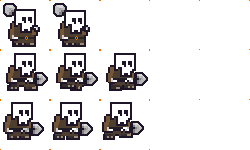
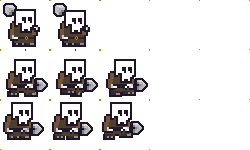
circle drawn around gravediggar

Changed region(s): [[0.0, 0.3467, 0.196, 0.6667], [0.42, 0.3467, 0.616, 0.6667], [0.224, 0.3467, 0.392, 0.6667]]

diff --git a/src/main.cpp b/src/main.cpp
@@ -27,7 +27,12 @@ int main()
   fsprite->updatePosition();
 
   // Main loop
-  bool thrown= false;
+  sf::CircleShape radiusHit;
+  radiusHit.setRadius(80);
+  radiusHit.setOutlineColor(sf::Color::Red);
+  radiusHit.setOutlineThickness(5);
+  bool thrown = false;
+  bool wasPressed = false;
   sf::Clock clock;
   while (window.isOpen()) {
     sf::Event event;
@@ -57,12 +62,16 @@ int main()
 	  (state->getState().compare("Left")==0)) {
 	state->setState("Stand");
       }
-      if (event.type == sf::Event::MouseButtonPressed) {
+      if (event.type == sf::Event::MouseButtonReleased) {
 	ACThrow * throwAction = (ACThrow*) gravedigger->getComponent("Throw");
 	throwAction->setX(event.mouseButton.x);
 	throwAction->setY(event.mouseButton.y);
 	throwAction->execute();
 	thrown  = true;
+	wasPressed = false;
+      }
+      if (event.type == sf::Event::MouseButtonPressed) {
+	wasPressed = true;
       }
       
 
@@ -73,6 +82,17 @@ int main()
     state->update(elapsed.asMicroseconds());
 
     window.clear(); // not sure why i do dat
+    if (wasPressed) {
+      CPosition * position=(CPosition*)gravedigger->getComponent("Position");
+      int x=
+	position->getX()-radiusHit.getRadius();
+      int y=
+	position->getY()-
+	(float)((sprite->getSprite()).getLocalBounds().height) -
+	(float)(radiusHit.getRadius()/2);
+      radiusHit.setPosition(x,y);
+      window.draw(radiusHit);
+    }
     window.draw(sprite->getSprite() );
     if (thrown) {
       GameObject * shovel;

diff --git a/src/factories/CharacterFactory.cpp b/src/factories/CharacterFactory.cpp
@@ -42,15 +42,15 @@ Character * CharacterFactory::get(const std::string name) {
     // Creating states
     CState * state = new CState(character);
     AStand * stand = new AStand(character, 2.0*thousandMillisec);
-    sf::IntRect subSprite1(3,3,45,44); // Stand 1
-    sf::IntRect subSprite2(53,3,45,44); // Stand 2
+    sf::IntRect subSprite1(2,3,45,44); // Stand 1
+    sf::IntRect subSprite2(52,3,45,44); // Stand 2
     stand->addSubSprite(subSprite1);
     stand->addSubSprite(subSprite2);
     ALeft  * left  = new ALeft (character, 0.35*thousandMillisec);
     ARight * right = new ARight(character, 0.35*thousandMillisec);
-    sf::IntRect subSprite3(3,53,45,38);
-    sf::IntRect subSprite4(53,53,45,38);
-    sf::IntRect subSprite5(103,53,45,38);
+    sf::IntRect subSprite3(2,53,46,44);
+    sf::IntRect subSprite4(52,53,46,44);
+    sf::IntRect subSprite5(102,53,46,44);
     left->addSubSprite(subSprite3);
     left->addSubSprite(subSprite4);
     left->addSubSprite(subSprite5);
